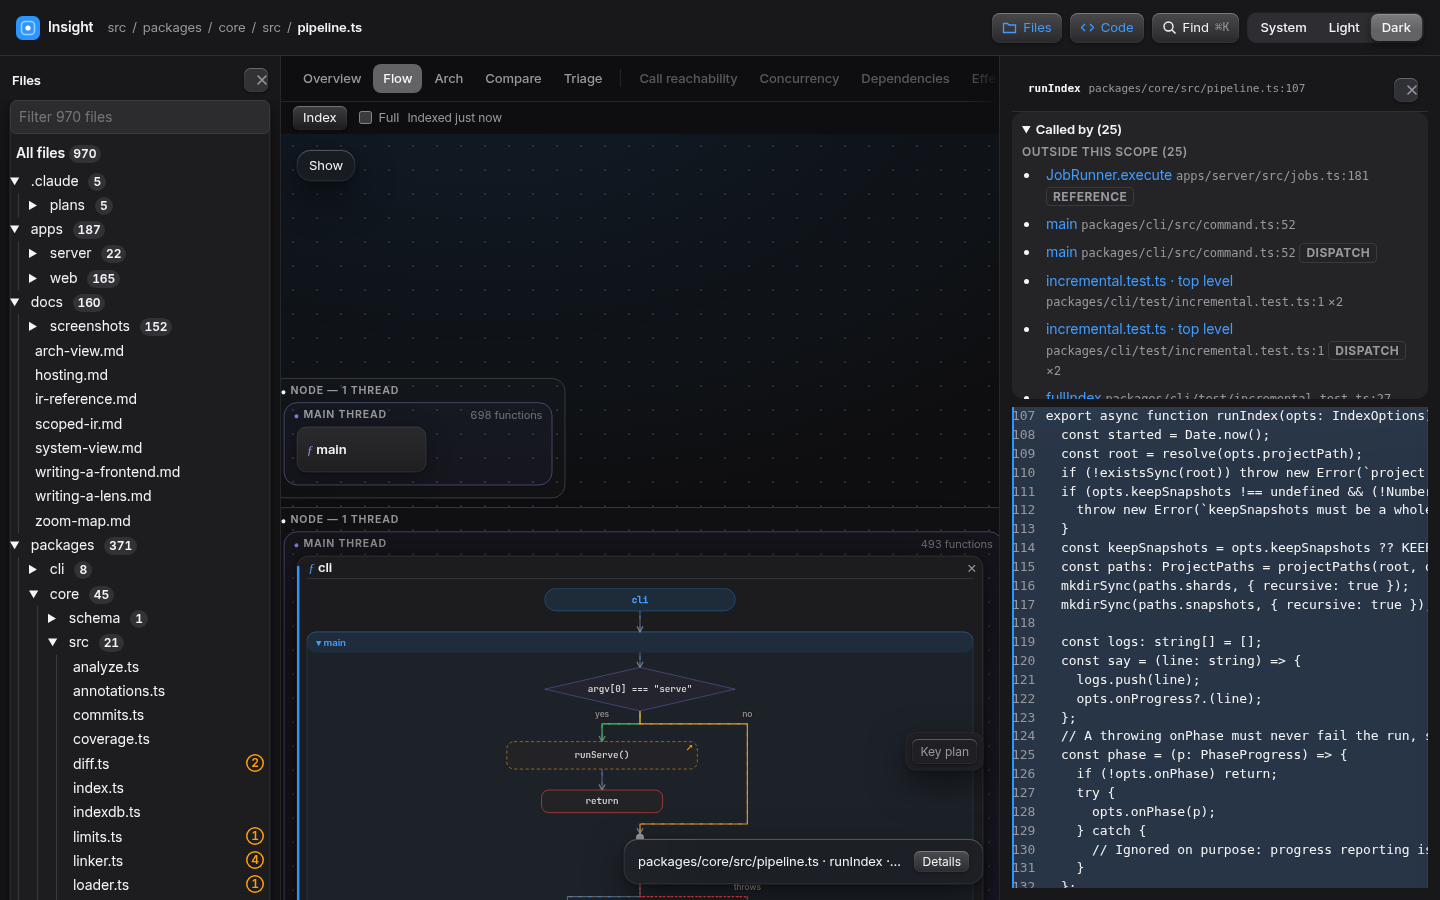
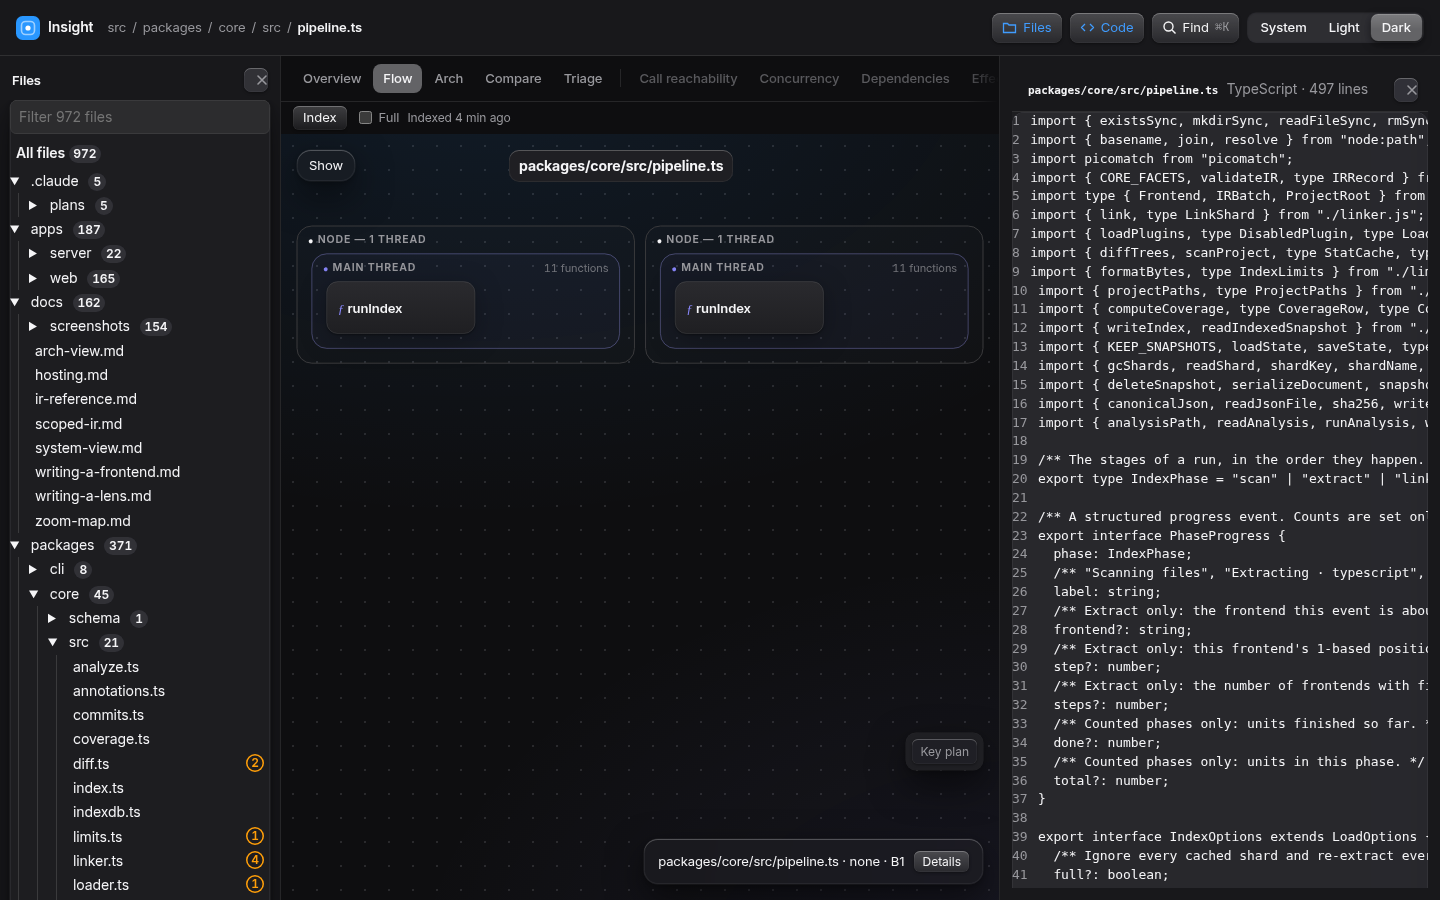
flow: file and folder scopes list only their own functions
A narrower scope showed functions from outside it: a root could be an
out-of-scope function, and thread frame counts included functions outside
the scope. Roots, reach, dispatch targets and coroutine sets are now
restricted to in-scope functions, while grounding still comes from the
whole-project thread. The fn= chain opens inside its thread frame.

Refreshes the file-scope and root-scope screenshots and adds fn view.

diff --git a/packages/flow/src/exec-model.ts b/packages/flow/src/exec-model.ts
@@ -483,11 +483,17 @@ export function execModel(nodes: readonly IRNode[], edges: readonly IREdge[], sc
   // count, so a function the scope's own code never calls is a root of the scope even when another folder calls it.
   // Test, fixture and sample code counts only in a noise scope, as its functions are roots only there.
   const referenced = new Set<string>();
+  // A function some out-of-scope caller calls, references or dispatches. An in-scope function that only such code reaches
+  // is a root of the scope's view of its thread, since the caller that starts it lies outside the scope.
+  const calledOutside = new Set<string>();
 
   for (const { e, ids, candidates } of keyed) {
     const from = foldId(e.from);
     const local = inScopeId(from);
     const counted = local && (scopeNoise || !noiseId(from));
+    if (!local && (e.kind === "calls.call" || e.kind === "calls.reference" || e.kind === "concurrency.dispatches")) {
+      for (const to of ids) calledOutside.add(to);
+    }
     if (e.kind === "calls.call" || e.kind === "calls.reference") {
       const closure = e.kind === "calls.reference" && strAttr(e.attrs, "how") === "closure";
       const out = closure ? closureOut : callOut;
@@ -861,20 +867,26 @@ export function execModel(nodes: readonly IRNode[], edges: readonly IREdge[], sc
     return true;
   };
 
+  // The scope's view of each shown thread. Membership and grounding are the whole project's (the plans above); what is
+  // listed is only the in-scope functions the thread runs. Its roots are its in-scope roots, plus the in-scope functions
+  // it runs that only out-of-scope code starts, so no out-of-scope function is a card or counted in a frame.
+  const inScopeFn = (id: string): boolean => fns.get(id)?.inScope === true;
   const threads: ExecThread[] = plans
     .filter((p) => p.spawn !== undefined || shownPlanIds.has(p.id))
     .map((p) => {
-    const roots = p.roots.filter(take);
-    const reached = [...p.reach].sort(byText).filter(take);
+    const extraRoots = [...p.reach].filter((id) => inScopeFn(id) && calledOutside.has(id) && !referenced.has(id) && !p.roots.includes(id));
+    const roots = [...p.roots.filter(inScopeFn), ...extraRoots.sort(byText)].filter(take);
+    const reachIn = [...p.reach].filter(inScopeFn).sort(byText);
+    const reached = reachIn.filter(take);
     // A subset of `reached`, so every id was already offered to the table: filter by it instead of taking again.
     const coroutineOnly = [...p.reach]
-      .filter((id) => !p.plain.has(id))
+      .filter((id) => !p.plain.has(id) && inScopeFn(id))
       .sort(byText)
       .filter((id) => table.has(id));
     const coroutines: ExecCoroutine[] = [];
     for (const co of p.coroutines) {
-      if (!take(co.target)) continue;
-      coroutines.push({ ...co, callees: co.callees.filter(take) });
+      if (!inScopeFn(co.target) || !take(co.target)) continue;
+      coroutines.push({ ...co, callees: co.callees.filter((id) => inScopeFn(id) && take(id)) });
     }
     // A main thread is grounded when a root is a program's main, a function named `main`, or a module entry; a spawn always is.
     const grounded = p.kind !== "main" || p.roots.some((r) => programMains.has(r) || fns.get(r)?.name === "main" || fns.get(r)?.module === true);
@@ -884,7 +896,7 @@ export function execModel(nodes: readonly IRNode[], edges: readonly IREdge[], sc
       grounded,
       ...(p.spawn !== undefined ? { spawn: p.spawn } : {}),
       roots,
-      reach: [...p.reach].filter((id) => fns.has(id)).length,
+      reach: reachIn.length,
       reached,
       coroutines,
       coroutineOnly,
@@ -894,7 +906,7 @@ export function execModel(nodes: readonly IRNode[], edges: readonly IREdge[], sc
   const dispatches: ExecDispatch[] = dispatchSites.map((d) => ({
     from: d.from,
     how: d.how,
-    targets: d.targets.filter(take),
+    targets: d.targets.filter((id) => inScopeFn(id) && take(id)),
     candidates: d.candidates,
     file: d.file,
     line: d.line,

diff --git a/packages/flow/test/exec-model.test.ts b/packages/flow/test/exec-model.test.ts
@@ -339,14 +339,17 @@ describe("execModel across nested scopes", () => {
     }
   });
 
-  it("shows a spawn thread with the same roots, reach and coroutines in every scope that holds its spawn", () => {
+  it("shows a spawn thread with the same grounding in every scope that holds its spawn, and no more functions in a narrower one", () => {
     for (const [narrow, wide] of nested) {
       const inner = execModel(NODES, EDGES, narrow);
       const outer = execModel(NODES, EDGES, wide);
       for (const t of inner.threads.filter((x) => x.spawn !== undefined)) {
         const same = outer.threads.find((x) => x.id === t.id);
         expect(same, `thread ${t.id} of ${narrow} is missing from ${wide || "the project"}`).toBeDefined();
-        expect(same).toMatchObject({ roots: t.roots, reach: t.reach, reached: t.reached, coroutines: t.coroutines });
+        // Membership and grounding are the whole project's. A narrower scope lists only its in-scope functions.
+        expect(same).toMatchObject({ grounded: t.grounded, kind: t.kind });
+        expect(t.reach).toBeLessThanOrEqual(same?.reach ?? 0);
+        expect(same?.reached).toEqual(expect.arrayContaining(t.reached));
       }
     }
   });
@@ -357,7 +360,11 @@ describe("execModel across nested scopes", () => {
       const outer = execModel(NODES, EDGES, wide);
       expect(inner.stats.spawns, `${narrow} vs ${wide}`).toBeLessThanOrEqual(outer.stats.spawns);
       expect(inner.stats.functionsInScope, `${narrow} vs ${wide}`).toBeLessThanOrEqual(outer.stats.functionsInScope);
-      expect(outer.dispatches).toEqual(expect.arrayContaining(inner.dispatches));
+      // A narrower scope lists the same dispatch sites, with only its in-scope targets.
+      for (const d of inner.dispatches) {
+        expect(outer.dispatches).toContainEqual(expect.objectContaining({ from: d.from, how: d.how, file: d.file, line: d.line }));
+        for (const target of d.targets) expect(outer.functions.some((f) => f.id === target)).toBe(true);
+      }
     }
   });
 
@@ -532,8 +539,8 @@ describe("execModel: anonymous functions and runtime", () => {
     const project = execModel(nodes, edges, "");
     expect(project.threads[0]).toMatchObject({ roots: ["src/a.ts#main"], reach: 2 });
     expect(runtimes(project)).toEqual({ "src/a.ts#main": "thread", "src/a.ts#run": "thread" });
-    // In the test folder the test is the root, and what it calls is reached from it.
-    expect(execModel(nodes, edges, "tests").threads[0]).toMatchObject({ roots: ["tests/a.test.ts#it"], reach: 3 });
+    // In the test folder the test is the root, and what it calls is reached from it. Only in-scope functions are counted.
+    expect(execModel(nodes, edges, "tests").threads[0]).toMatchObject({ roots: ["tests/a.test.ts#it"], reach: 1 });
   });
 
   it("pins the known gap: a function only a wider scope's module-level code calls runs on no thread there", () => {

diff --git a/apps/server/test/scope.test.ts b/apps/server/test/scope.test.ts
@@ -363,15 +363,15 @@ describe("scoped IR routes", () => {
       });
     });
 
-    it("starts a folder's main thread at the functions no caller in the folder reaches, and keeps the functions outside it", async () => {
+    it("starts a folder's main thread at the functions no caller in the folder reaches, and lists no function outside it", async () => {
       const folder = await get<ExecListing>(execUrl("src"));
-      expect(folder.body.threads[0]).toMatchObject({ roots: ["src/b.ts#d"], reach: 4 });
+      // The folder's thread counts only the folder's own functions: d() -> a() -> b(). c() in lib is outside, so it is neither a root nor counted, and it is not listed.
+      expect(folder.body.threads[0]).toMatchObject({ roots: ["src/b.ts#d"], reach: 3 });
       expect(folder.body.stats).toMatchObject({ functionsInScope: 3, functionsThreaded: 3 });
-      // c() is in lib, outside the folder. It is listed because the thread reaches it, and it is not in scope.
-      expect(folder.body.functions.find((f) => f.id === "lib/c.ts#c")).toMatchObject({ inScope: false });
-      // a() has no caller inside its own file, so it is that file's root. It reaches b() and c() across the file's edge.
+      expect(folder.body.functions.find((f) => f.id === "lib/c.ts#c")).toBeUndefined();
+      // a() has no caller inside its own file, so it is that file's root. b() and c() are outside the file, so the thread counts only a().
       const file = await get<ExecListing>(execUrl("src/a.ts"));
-      expect(file.body.threads[0]).toMatchObject({ roots: ["src/a.ts#a"], reach: 3 });
+      expect(file.body.threads[0]).toMatchObject({ roots: ["src/a.ts#a"], reach: 1 });
       expect(file.body.stats).toMatchObject({ functionsInScope: 1, functionsThreaded: 1 });
     });
 

diff --git a/packages/flow/test/exec-workspace-programs.test.ts b/packages/flow/test/exec-workspace-programs.test.ts
@@ -107,6 +107,24 @@ describe("workspace packages as program entries", () => {
     const m = execModel(nodes, edges, "packages/server");
     expect(m.programs.map((p) => p.id)).toEqual([SERVER]);
     expect(m.threads.some((t) => t.id === `main:${CLI}`)).toBe(false);
-    expect(runtimeOf(m, LIB_FN)).toBe("thread");
+    // The CLI's thread is not listed here, and the library function it runs is out of this scope, so it is not listed.
+    expect(m.functions.some((f) => f.id === LIB_FN)).toBe(false);
+  });
+
+  it("lists no out-of-scope function at a file's scope, and frames count only its own functions", () => {
+    const m = execModel(nodes, edges, "packages/lib/src/index.ts");
+    expect(m.functions.every((f) => f.inScope)).toBe(true);
+    const cli = threadOf(m, CLI);
+    // The CLI's module and run() are out of scope: the library function is the thread's root in this view.
+    expect(cli?.roots).toEqual([LIB_FN]);
+    expect(cli?.reached).toEqual([LIB_FN]);
+    expect(cli?.reach).toBe(1);
+    expect(m.calls).toEqual([]);
+  });
+
+  it("keeps the whole project's roots at the project scope", () => {
+    const m = execModel(nodes, edges, "");
+    expect(threadOf(m, CLI)?.roots).toEqual([CLI_MODULE]);
+    expect(m.functions.some((f) => f.id === LIB_FN && f.inScope)).toBe(true);
   });
 });
